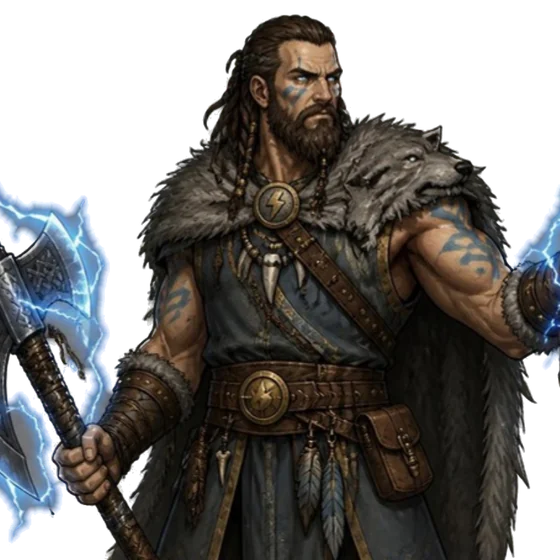
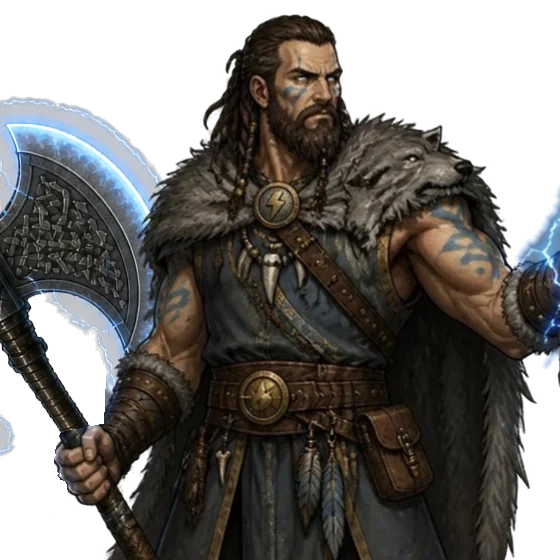
Implementa animação do espadachim e do bárbaro

Changed region(s): [[0.0, 0.1518, 0.3036, 0.9714]]

diff --git a/src/styles/battle.css b/src/styles/battle.css
@@ -600,6 +600,24 @@
     --fx-hand-y: 0.239;
 }
 
+/* Bárbaro: figura de 856 x 840 (com o machado grande); poses de 901 x 1173, a partir de (35, -333). */
+.bt-posed--barbaro {
+    aspect-ratio: 856 / 840;
+    --pose-left: 4.09%;
+    --pose-top: -39.64%;
+    --pose-width: 105.26%;
+    --pose-height: 139.64%;
+}
+
+/* Espadachim: figura de 619 x 840; poses de 1176 x 922, a partir de (-202, -82). */
+.bt-posed--espadachim {
+    aspect-ratio: 619 / 840;
+    --pose-left: -32.63%;
+    --pose-top: -9.76%;
+    --pose-width: 189.98%;
+    --pose-height: 109.76%;
+}
+
 /*
  * Golpe corpo a corpo (bt-lunge, 1,1 s): no recuo ela ergue a arma (windup)
  * e, no avanço, desce o golpe (strike), que acerta aos 63%, quando o dano
@@ -756,6 +774,141 @@
     90%,
     100% {
         opacity: 1;
+    }
+}
+
+/*
+ * Golpe com custo (o Golpe Trovejante, bt-unit--heavy): quem tem as poses
+ * heavy-windup e heavy-strike usa elas no lugar da windup e da strike do
+ * ataque básico, no mesmo tempo. Se faltar uma das duas, aquele momento fica
+ * com a pose do ataque básico.
+ */
+.bt-unit--heavy .bt-posed:has(.bt-posed__pose--heavy-windup) .bt-posed__pose--windup,
+.bt-unit--heavy .bt-posed:has(.bt-posed__pose--heavy-strike) .bt-posed__pose--strike {
+    animation: none;
+}
+
+.bt-unit--heavy .bt-posed__pose--heavy-windup {
+    animation: bt-pose-windup 1.1s linear;
+}
+
+.bt-unit--heavy .bt-posed__pose--heavy-strike {
+    animation: bt-pose-strike 1.1s linear;
+}
+
+/*
+ * Golpe de vários acertos (a Dança das Lâminas, bt-unit--combo): quem tem as
+ * poses combo-1, combo-2 e combo-3 prepara (windup) e dá três golpes
+ * seguidos, um em cada pose, no lugar do golpe único (strike). O último
+ * acerta aos 63%, quando os danos aparecem. A figura avança mais cedo
+ * (bt-lunge-combo) e balança a cada golpe.
+ */
+.bt-unit.bt-unit--combo .bt-unit__sprite:has(.bt-posed__pose--combo-1) {
+    animation-name: bt-lunge-combo;
+}
+
+.bt-unit--combo .bt-posed:has(.bt-posed__pose--combo-1) .bt-posed__pose--windup {
+    animation-name: bt-pose-combo-windup;
+}
+
+.bt-unit--combo .bt-posed:has(.bt-posed__pose--combo-1) .bt-posed__pose--strike {
+    animation: none;
+}
+
+.bt-unit--combo .bt-posed__pose--combo-1 {
+    animation: bt-pose-combo-1 1.1s linear;
+}
+
+.bt-unit--combo .bt-posed__pose--combo-2 {
+    animation: bt-pose-combo-2 1.1s linear;
+}
+
+.bt-unit--combo .bt-posed__pose--combo-3 {
+    animation: bt-pose-combo-3 1.1s linear;
+}
+
+@keyframes bt-pose-combo-windup {
+    0%,
+    6% {
+        opacity: 0;
+    }
+    9%,
+    28% {
+        opacity: 1;
+    }
+    31%,
+    100% {
+        opacity: 0;
+    }
+}
+
+@keyframes bt-pose-combo-1 {
+    0%,
+    28% {
+        opacity: 0;
+    }
+    31%,
+    42% {
+        opacity: 1;
+    }
+    45%,
+    100% {
+        opacity: 0;
+    }
+}
+
+@keyframes bt-pose-combo-2 {
+    0%,
+    42% {
+        opacity: 0;
+    }
+    45%,
+    53% {
+        opacity: 1;
+    }
+    56%,
+    100% {
+        opacity: 0;
+    }
+}
+
+@keyframes bt-pose-combo-3 {
+    0%,
+    53% {
+        opacity: 0;
+    }
+    56%,
+    86% {
+        opacity: 1;
+    }
+    90%,
+    100% {
+        opacity: 0;
+    }
+}
+
+@keyframes bt-lunge-combo {
+    18%,
+    28% {
+        transform: translateX(-7%) rotate(-2deg);
+    }
+    36% {
+        transform: translateX(36%) rotate(2deg);
+    }
+    43% {
+        transform: translateX(32%) rotate(-1deg);
+    }
+    49% {
+        transform: translateX(39%) rotate(2deg);
+    }
+    55% {
+        transform: translateX(34%) rotate(0deg);
+    }
+    63% {
+        transform: translateX(42%) rotate(3deg);
+    }
+    74% {
+        transform: translateX(36%) rotate(1deg);
     }
 }
 

diff --git a/src/battle/fx.ts b/src/battle/fx.ts
@@ -17,6 +17,10 @@ export interface SkillFx {
     delivery: Delivery;
     /** Ataque em área feito de projéteis (chuva de flechas): cai do alto em vez de usar o desenho do elemento. */
     rain: boolean;
+    /** Golpe corpo a corpo de vários acertos (a Dança das Lâminas): quem tem as poses `combo-*` anima um golpe por acerto. */
+    combo: boolean;
+    /** Golpe corpo a corpo que gasta energia (o Golpe Trovejante): quem tem as poses `heavy-*` usa elas no lugar das do ataque básico. */
+    heavy: boolean;
     sourceId: string;
     targetIds: string[];
     /** Não é uma habilidade: é a passiva de começo de vez da unidade agindo sozinha. */
@@ -52,6 +56,8 @@ export function skillFxOf(event: Extract<BattleEvent, { type: 'skill_used' | 'co
         element: skill?.element ?? 'physical',
         delivery,
         rain: delivery === 'area' && skill?.ranged === true,
+        combo: delivery === 'melee' && (skill?.effects.filter((effect) => effect.type === 'damage').length ?? 0) > 1,
+        heavy: delivery === 'melee' && (skill?.energyCost ?? 0) > 0,
         sourceId: event.unitId,
         targetIds: event.targetIds,
         passive: false,
@@ -82,6 +88,8 @@ export function passiveFxOf(event: Extract<BattleEvent, { type: 'passive_trigger
         element: passive.element ?? 'physical',
         delivery,
         rain: false,
+        combo: false,
+        heavy: false,
         sourceId: event.unitId,
         targetIds: event.targetIds,
         passive: true,

diff --git a/src/components/battle/artFiles.ts b/src/components/battle/artFiles.ts
@@ -14,7 +14,7 @@
  *
  * Poses de ação: além do <id>.webp, o personagem pode ter os desenhos
  * <id>-pose-<momento>.webp (windup, strike, charge, cast, bolt, area e os quadros extras
- * bolt-end, area-start, area-charge, area-end), trocados durante a
+ * heavy-windup, heavy-strike, combo-1, combo-2, combo-3, bolt-end, area-start, area-charge, area-end), trocados durante a
  * animação em battle.css. Ver getPoseFrames.
  */
 export type ArtKind = 'figure' | 'face' | 'card';
@@ -42,9 +42,24 @@ const RENAMED: Record<string, string> = {
     espinho: 'guardiao',
 };
 
-export type PoseName = 'windup' | 'strike' | 'charge' | 'cast' | 'bolt' | 'bolt-end' | 'area-start' | 'area-charge' | 'area' | 'area-end';
+export type PoseName =
+    | 'windup'
+    | 'strike'
+    | 'heavy-windup'
+    | 'heavy-strike'
+    | 'combo-1'
+    | 'combo-2'
+    | 'combo-3'
+    | 'charge'
+    | 'cast'
+    | 'bolt'
+    | 'bolt-end'
+    | 'area-start'
+    | 'area-charge'
+    | 'area'
+    | 'area-end';
 
-const POSES: PoseName[] = ['windup', 'strike', 'charge', 'cast', 'bolt', 'bolt-end', 'area-start', 'area-charge', 'area', 'area-end'];
+const POSES: PoseName[] = ['windup', 'strike', 'heavy-windup', 'heavy-strike', 'combo-1', 'combo-2', 'combo-3', 'charge', 'cast', 'bolt', 'bolt-end', 'area-start', 'area-charge', 'area', 'area-end'];
 
 /**
  * Os desenhos de cada momento da ação (preparar e acertar o golpe; juntar,

diff --git a/src/components/battle/UnitToken.tsx b/src/components/battle/UnitToken.tsx
@@ -54,6 +54,10 @@ export function UnitToken({ unit, units, isActive, acting, isHit, isHealed, isMo
         isActive && 'bt-unit--active',
         // Corpo a corpo avança no alvo; o resto conjura no lugar, na cor do elemento.
         acting && (acting.delivery === 'melee' ? 'bt-unit--acting' : `bt-unit--casting bt-el--${acting.element}`),
+        // Vários golpes seguidos no mesmo alvo: quem tem as poses combo-* troca de pose a cada golpe.
+        acting?.combo && 'bt-unit--combo',
+        // Golpe com custo: quem tem as poses heavy-* (o Bárbaro) usa elas no lugar das do ataque básico.
+        acting?.heavy && 'bt-unit--heavy',
         // Projétil e área podem ter pose própria (o raio do Sacerdote, os meteoros do Piromante) no lugar da de conjurar.
         acting?.delivery === 'area' && 'bt-unit--area',
         acting?.delivery === 'projectile' && 'bt-unit--projectile',

diff --git a/src/assets/characters/README.md b/src/assets/characters/README.md
@@ -33,12 +33,14 @@ Cuidados para a figura combinar com as outras:
 ## Poses de ação
 
 Além da figura parada, um personagem pode ter desenhos de cada momento da
-ação, trocados durante a animação (hoje, a Inquisidora, o Piromante, o Sacerdote, o Vampiro, o Ladino, o Cavaleiro, a Súcubo, a Harpia e o Arqueiro):
+ação, trocados durante a animação (hoje, a Inquisidora, o Piromante, o Sacerdote, o Vampiro, o Ladino, o Cavaleiro, a Súcubo, a Harpia, o Arqueiro, o Espadachim e o Bárbaro):
 
 | Arquivo | Quando aparece |
 | --- | --- |
 | `<id>-pose-windup.webp` | Golpe corpo a corpo: preparando o golpe (recuo). |
 | `<id>-pose-strike.webp` | Golpe corpo a corpo: o golpe acertando (avanço). |
+| `<id>-pose-heavy-windup.webp`, `-heavy-strike` | Golpe corpo a corpo que gasta energia (o Golpe Trovejante): no lugar da `windup` e da `strike` do ataque básico (opcionais; a que faltar fica com a do básico). |
+| `<id>-pose-combo-1.webp`, `-combo-2`, `-combo-3` | Golpe de vários acertos no mesmo alvo (a Dança das Lâminas): um quadro por golpe, depois da `windup`, no lugar da `strike` (opcionais; vale ter os três). |
 | `<id>-pose-charge.webp` | Magia: juntando a magia, antes de lançar (opcional). |
 | `<id>-pose-cast.webp` | Habilidade à distância, em área ou de suporte: lançando. |
 | `<id>-pose-bolt.webp` | Projétil: no lugar da `cast` (opcional). |
